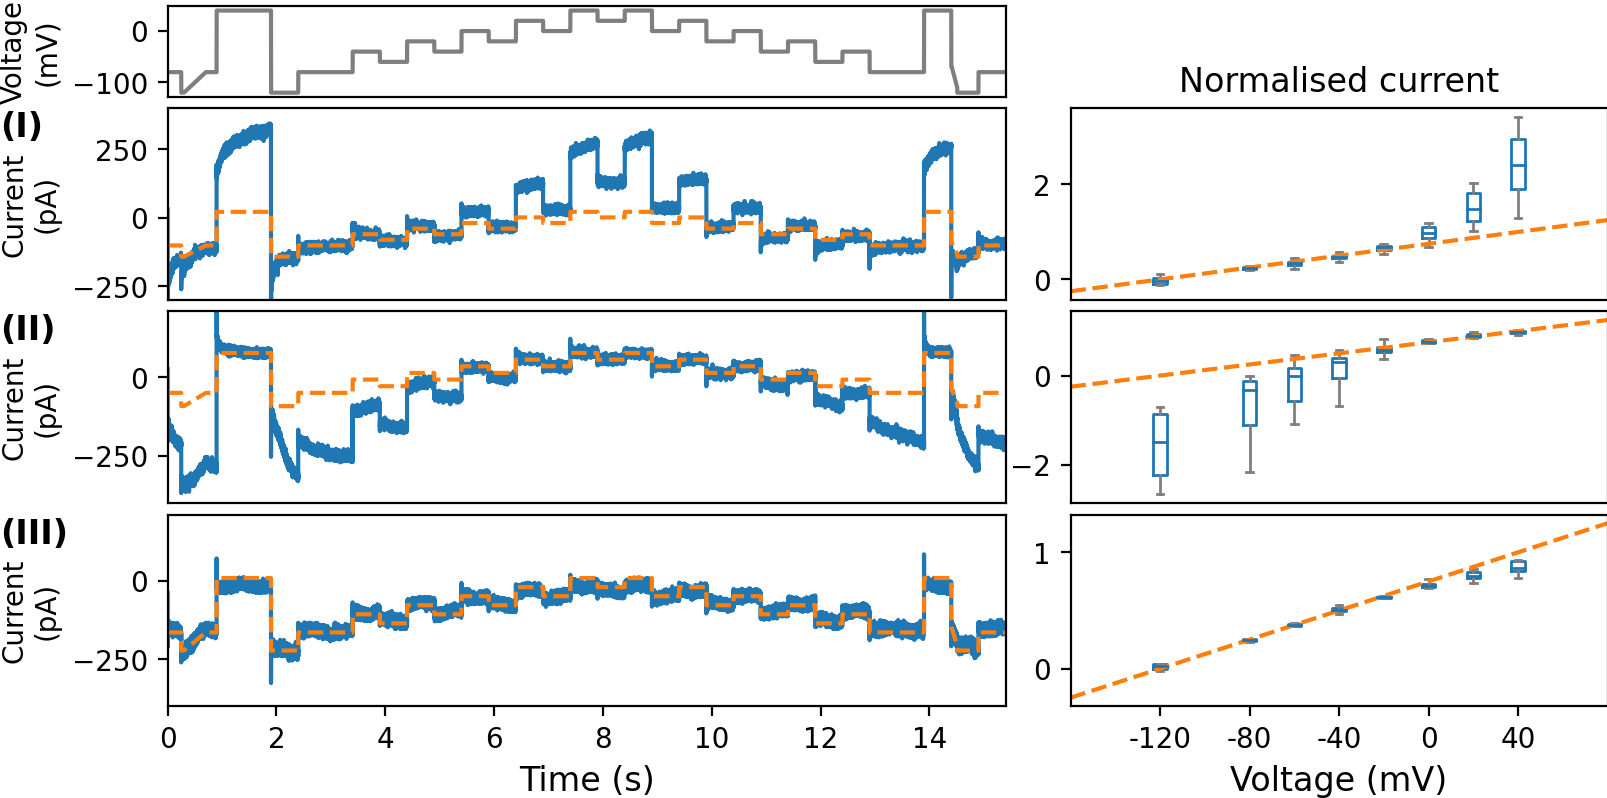
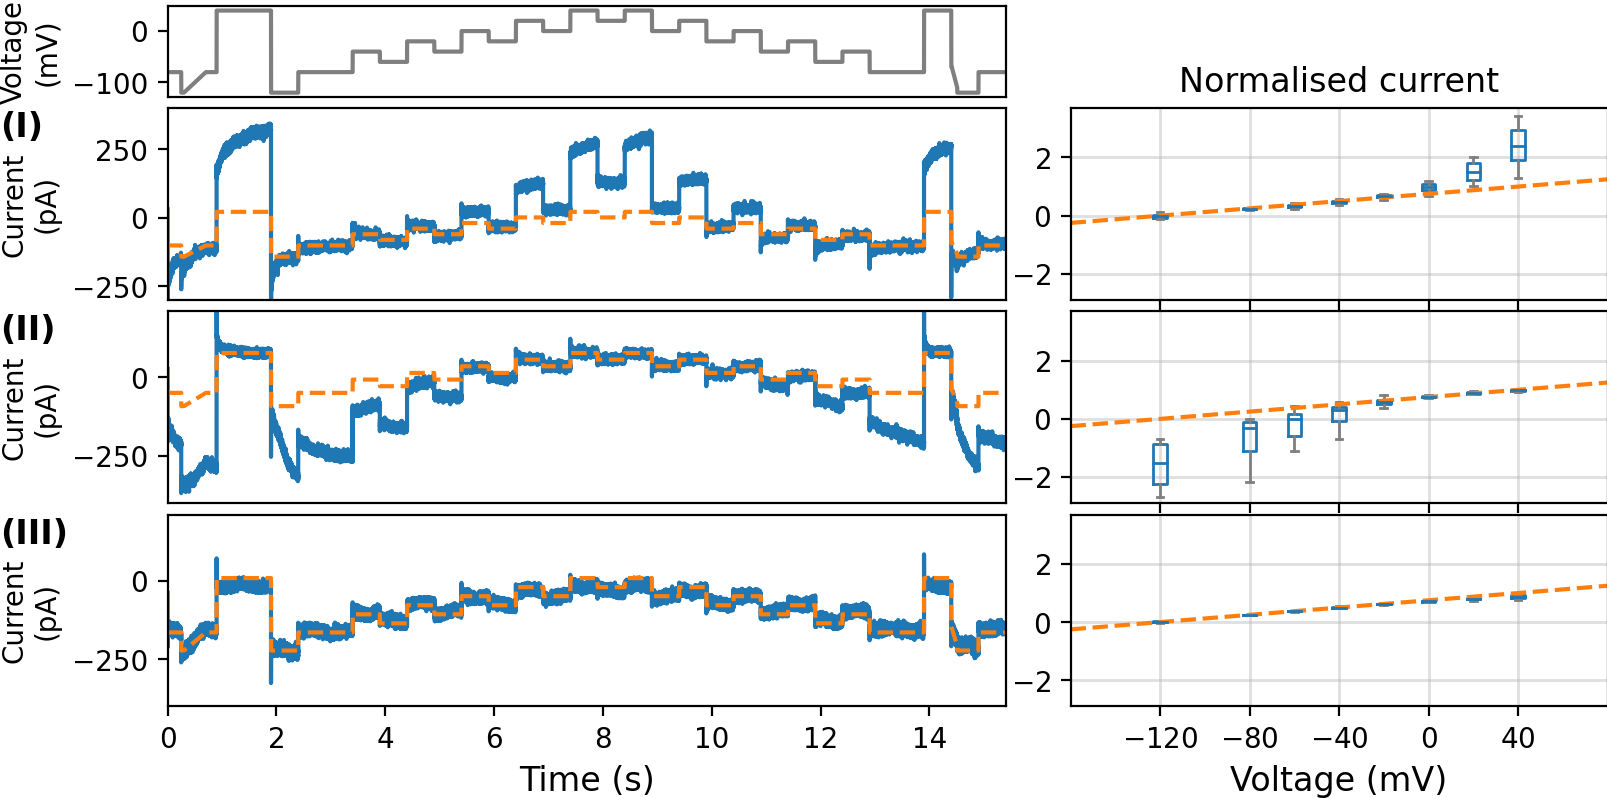
Comestic

diff --git a/figure-4.py b/figure-4.py
@@ -254,14 +254,8 @@ boxplot(np.array(niv_i1s), np.round(iv_v1s[0]), axes[1, 1])
 iv_i, iv_v = compute_leak_iv([liv_i1s[0], v])
 iv_i = normalise_by(iv_i, liv_i1s[0])
 axes[1, 1].plot(iv_v, iv_i, c='C1', ls='--')
-axes[1, 1].set_xlim([iv_v[0], iv_v[-1]])
-axes[1, 1].set_xticks([])
 
 axes[2, 1] = fig.add_subplot(grid[3:5, 3:])
-#niv_i2 = normalise_by(iv_i2, compute_leak(traces2, i=i_m2))
-#axes[2, 1].plot(np.round(iv_v2), niv_i2, 'x', c='C0')
-#iv_i, iv_v = compute_leak_iv(traces2, i=i_m2)
-#iv_i = normalise_by(iv_i, compute_leak(traces2, i=i_m2))
 niv_i2s = []
 for iv_v, iv_i, li in zip(iv_v2s, iv_i2s, liv_i2s):
     niv_i2s.append(normalise_by(iv_i, li))
@@ -269,14 +263,8 @@ boxplot(np.array(niv_i2s), np.round(iv_v2s[0]), axes[2, 1])
 iv_i, iv_v = compute_leak_iv([liv_i2s[0], v], i=i_m2)
 iv_i = normalise_by(iv_i, liv_i2s[0])
 axes[2, 1].plot(iv_v, iv_i, c='C1', ls='--')
-axes[2, 1].set_xlim([iv_v[0], iv_v[-1]])
-axes[2, 1].set_xticks([])
 
 axes[3, 1] = fig.add_subplot(grid[5:7, 3:])
-#niv_i3 = normalise_by(iv_i3, compute_leak(traces3))
-#axes[3, 1].plot(np.round(iv_v3), niv_i3, 'x', c='C0')
-#iv_i, iv_v = compute_leak_iv(traces3)
-#iv_i = normalise_by(iv_i, compute_leak(traces3))
 niv_i3s = []
 for iv_v, iv_i, li in zip(iv_v3s, iv_i3s, liv_i3s):
     niv_i3s.append(normalise_by(iv_i, li))
@@ -284,9 +272,18 @@ boxplot(np.array(niv_i3s), np.round(iv_v3s[0]), axes[3, 1])
 iv_i, iv_v = compute_leak_iv([liv_i3s[0], v])
 iv_i = normalise_by(iv_i, liv_i3s[0])
 axes[3, 1].plot(iv_v, iv_i, c='C1', ls='--')
-axes[3, 1].set_xlim([iv_v[0], iv_v[-1]])
-axes[3, 1].set_xticks([-120, -80, -40, 0, 40])
-axes[3, 1].set_xticklabels([-120, -80, -40, 0, 40])
+
+for i in range(1, 4):
+    axes[i, 1].set_ylim([-2.9, 3.7])
+    axes[i, 1].set_yticks([-2, 0, 2])
+    axes[i, 1].set_yticklabels([r'$-2$', r'$0$', r'$2$'])
+    axes[i, 1].grid(lw=1, alpha=0.4)
+    axes[i, 1].set_xlim([-160, 80])
+    axes[i, 1].set_xticks([-120, -80, -40, 0, 40])
+
+axes[1, 1].set_xticklabels([])
+axes[2, 1].set_xticklabels([])
+axes[3, 1].set_xticklabels([r'$-120$', r'$-80$', r'$-40$', r'$0$', r'$40$'])
 
 axes[-1, 1].set_xlabel('Voltage (mV)', fontsize=12)
 
